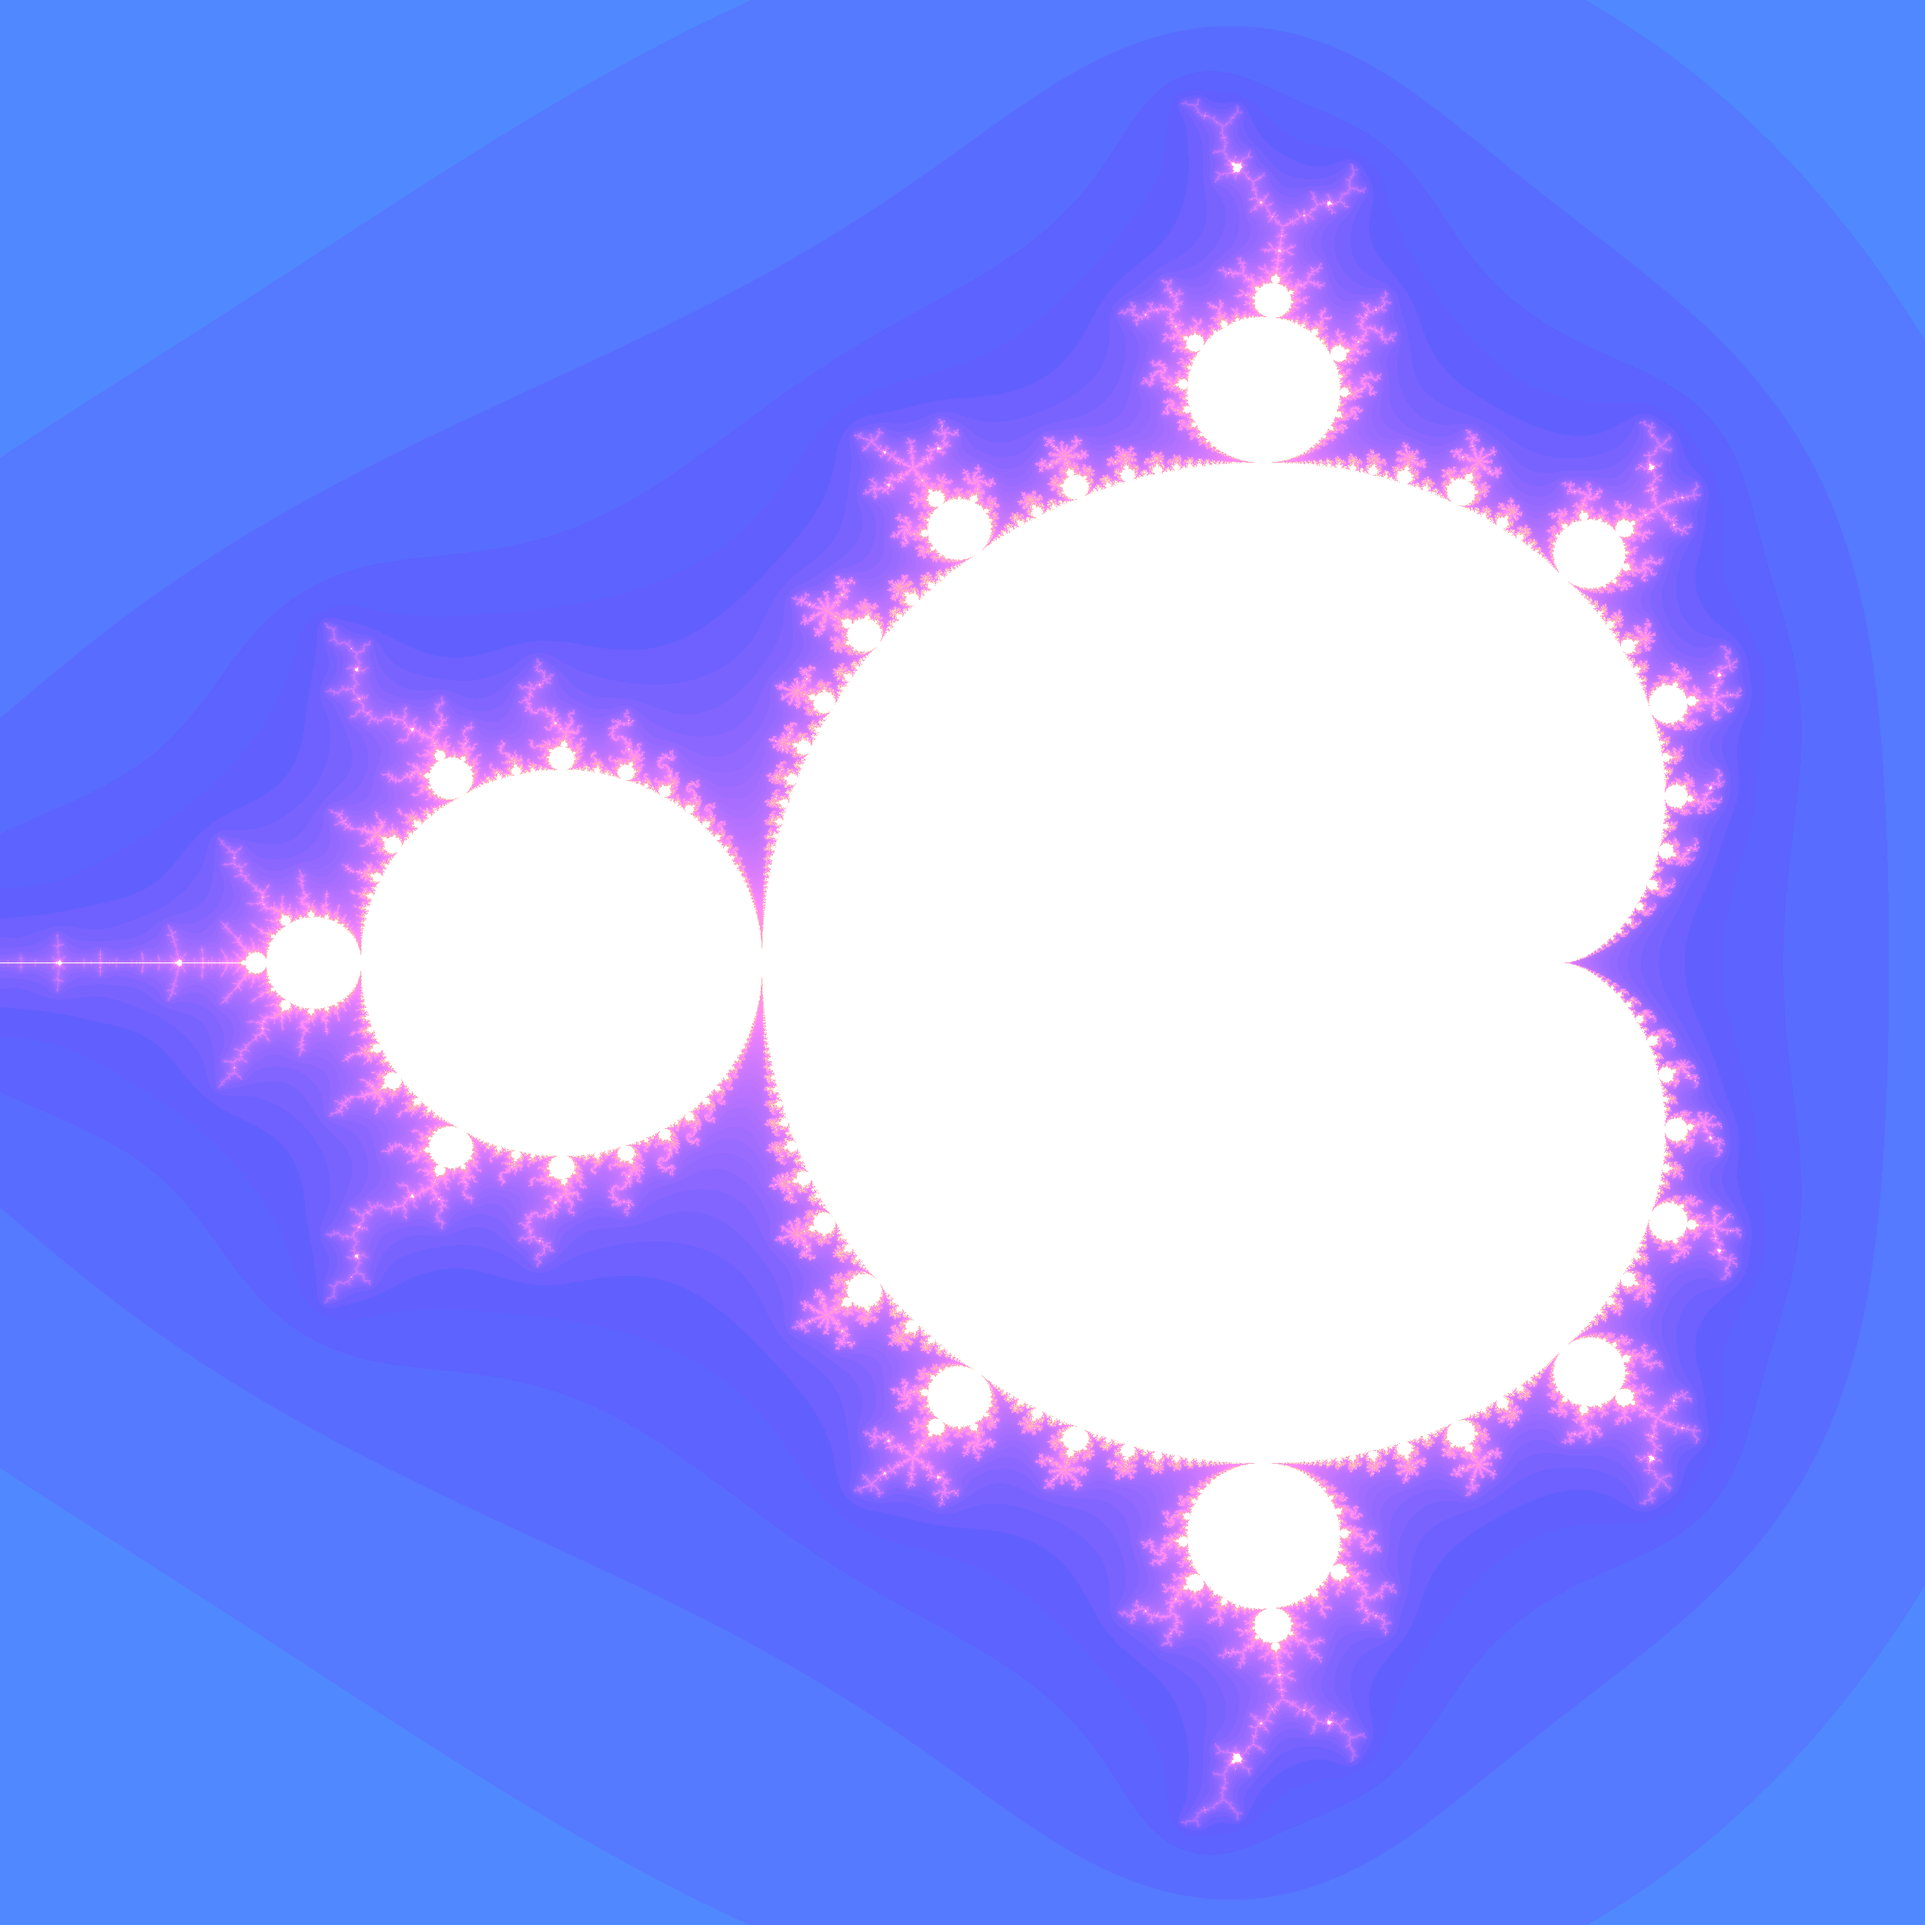
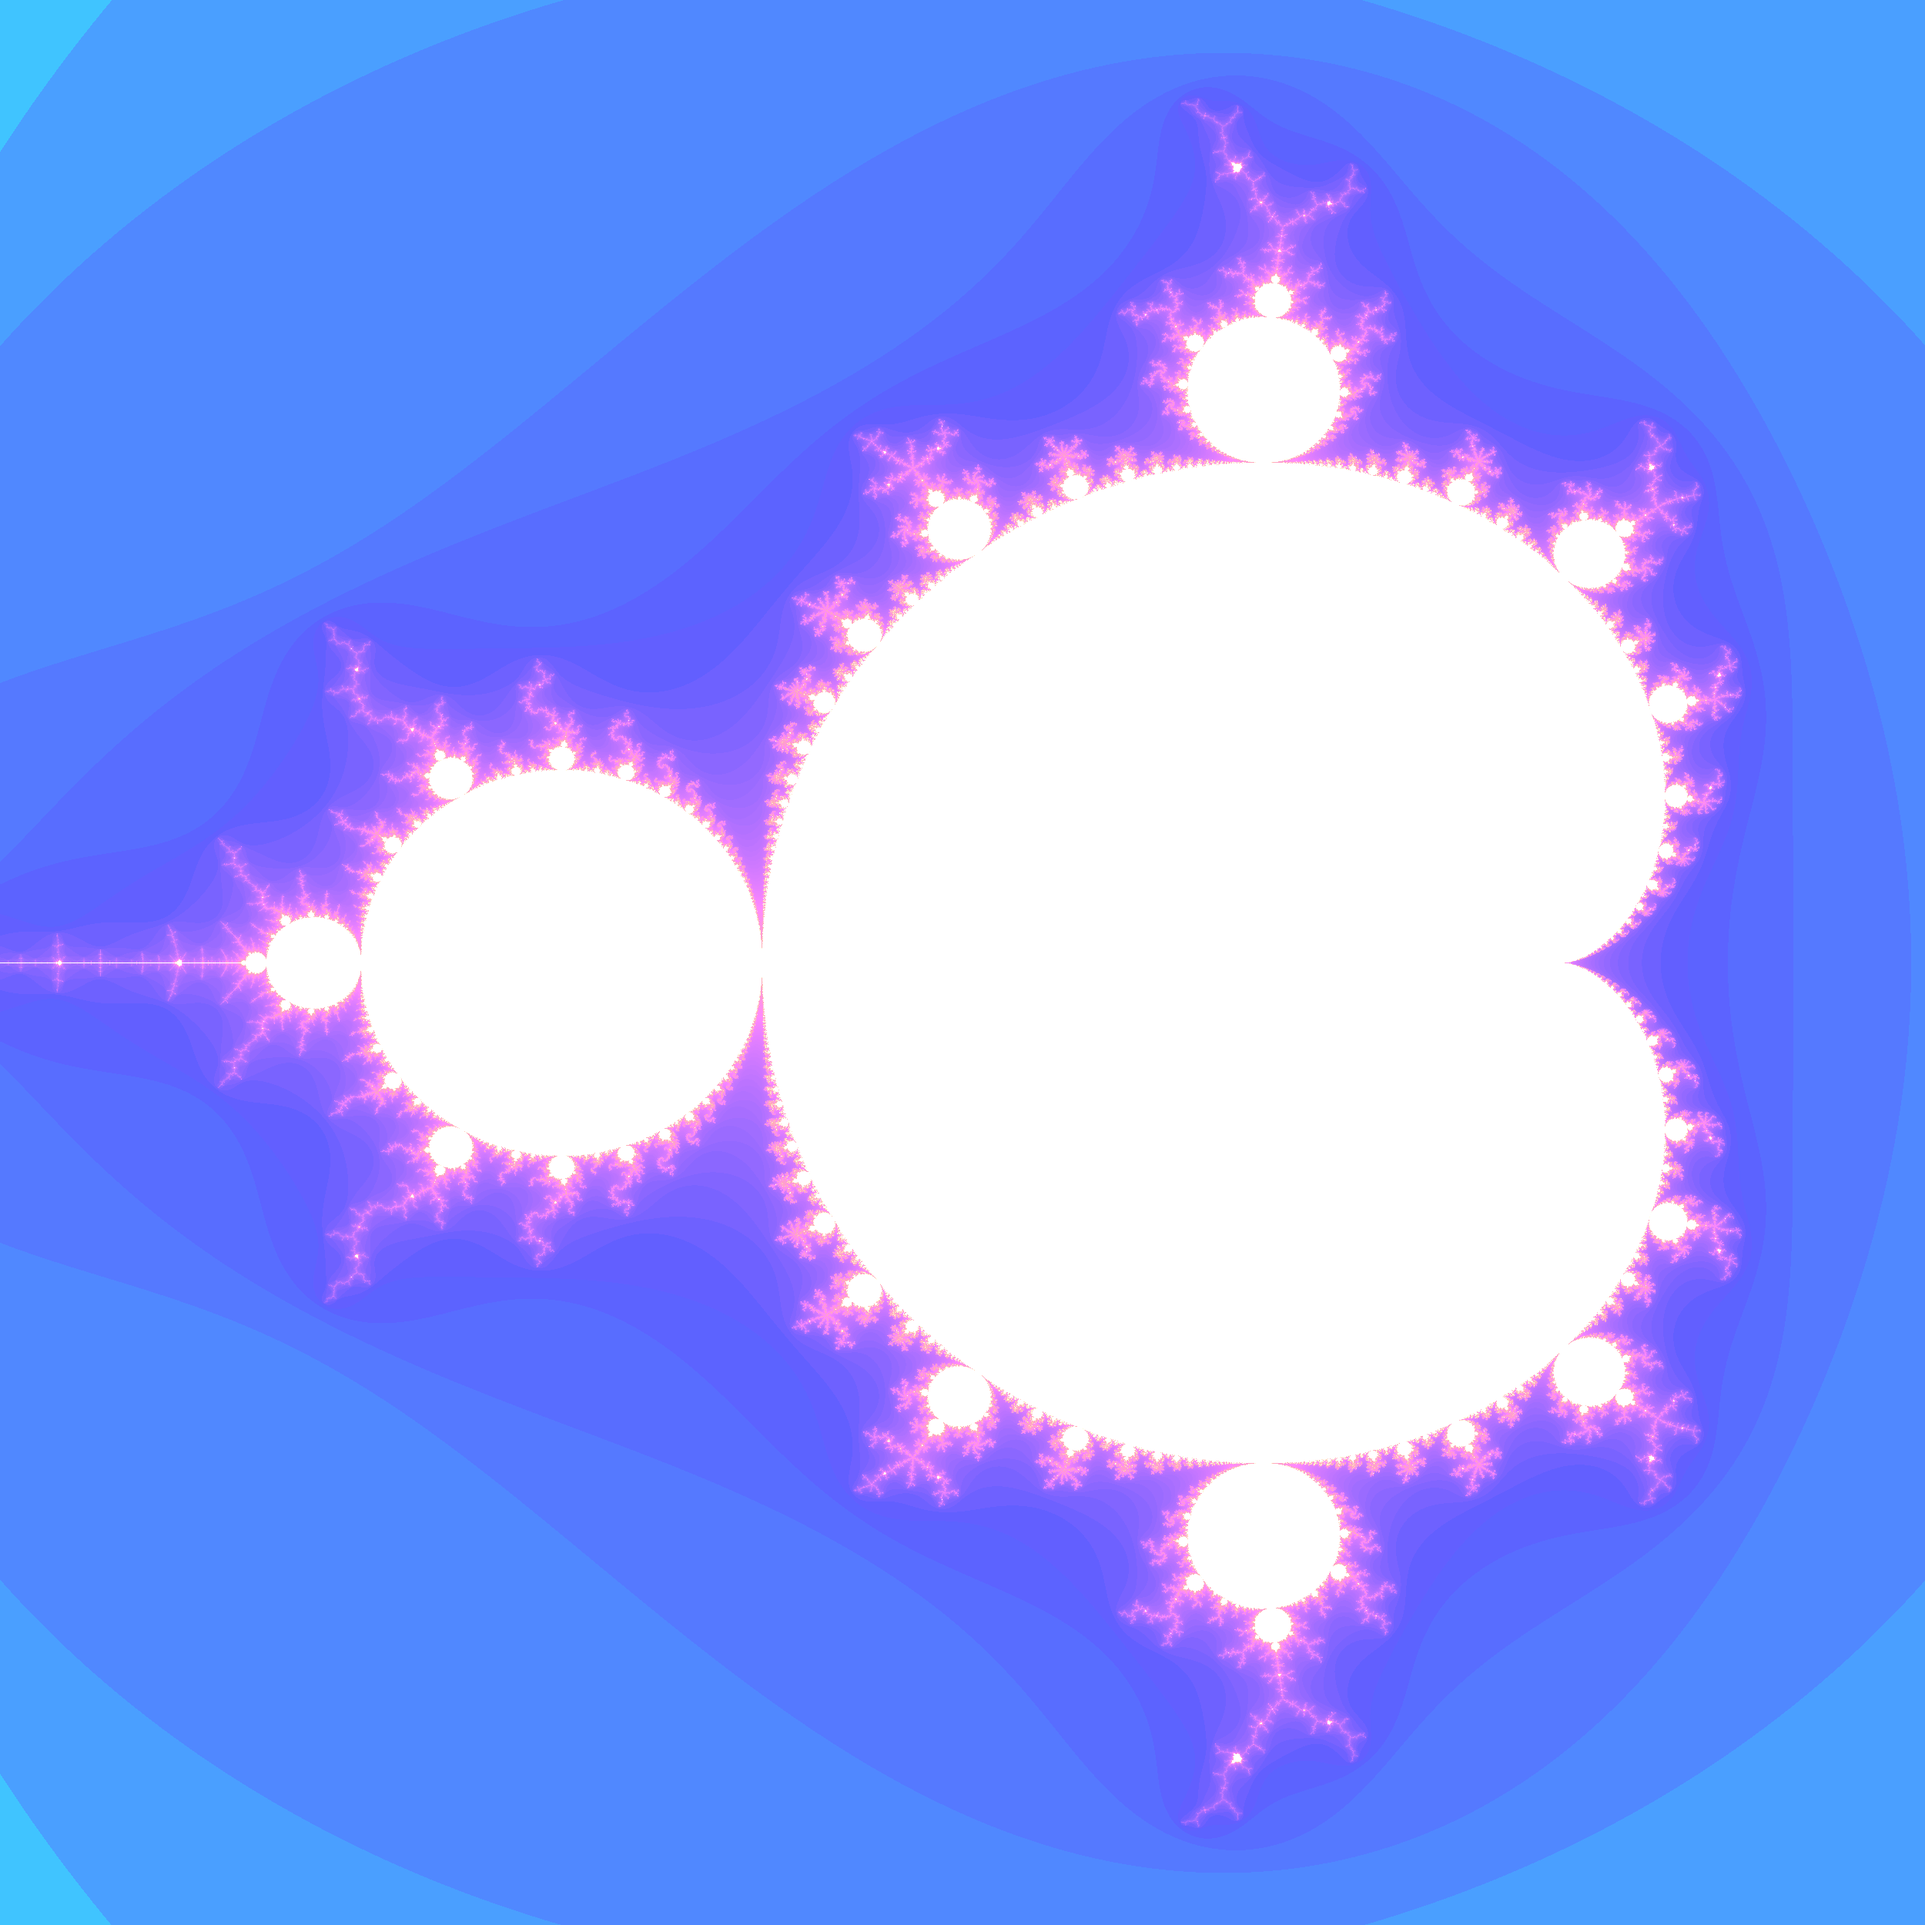
[+] Refactor, begin Buddhabrot

diff --git a/buddhabrot.py b/buddhabrot.py
@@ -1,0 +1,55 @@
+from PIL import Image
+from tqdm import tqdm
+import os
+import colorsys
+import math
+import time
+import numpy as np
+
+def non_mandel_points(base_num_points, max_iter):
+
+    non_mandel = np.zeros(base_num_points, dtype=np.complex128)
+    points_found = 0
+
+    random_numbers = (np.random.random(base_num_points)* 4 - 2 + (np.random.random(base_num_points)* 4 - 2) * 1j)
+
+    print("Total number of points found : {0}".format(len(random_numbers)))
+    
+    p = (((random_numbers.real-0.25)**2) + (random_numbers.imag**2))**.5
+    random_numbers = random_numbers[random_numbers.real > p- (2*p**2) + 0.25]
+
+    print("After deleting points in the main cardioid : {0}".format(len(random_numbers)))
+
+    random_numbers = random_numbers[((random_numbers.real+1)**2) + (random_numbers.imag**2) > 0.0625]
+
+    print("After deleting points of the period-2 bulb : {0}".format(len(random_numbers)))
+
+    z = np.copy(random_numbers)
+
+    for i in range(max_iter):
+
+        z = z ** 2 + random_numbers
+
+        mask = abs(z) < 2
+        # Get the points that are for sure not part of the Mandelbrot set
+        new_non_mandel = random_numbers[mask == False]
+        found_in_iter = len(new_non_mandel)
+        non_mandel[points_found:points_found+found_in_iter] = new_non_mandel
+        points_found += found_in_iter
+
+
+        #Delete these points from the data
+        random_numbers = random_numbers[mask]
+        z = z[mask]
+
+        #print("Deleted {0} numbers in iteration {1}".format(found_in_iter, i))
+        
+    print(points_found)
+    return(non_mandel[:points_found])
+
+
+
+
+if __name__ == "__main__":
+
+    non_mandel_points(500000, 10000)

diff --git a/mandelbrot.py b/mandelbrot.py
@@ -4,6 +4,7 @@ import os
 import colorsys
 import math
 import time
+import utils as utils
 
 # Generates Mandelbrot set
 # Iterates over every coordinates 
@@ -20,25 +21,6 @@ MAX_STEPS = 1000
 rendu = Image.new('RGB', (WIDTH, HEIGHT), color='black')
 pixels = rendu.load()
 
-def calc_distance(c, max_iter = MAX_STEPS):
-    z = complex(0, 0)
-
-    for iteration in range(max_iter + 1):
-        z = (z*z) + c
-
-        if abs(z) > 4:
-            break
-            pass
-        pass
-    
-    return (iteration + 1) / (max_iter + 1)
-
-def color_scale(distance, exp, const):
-    # The one who don't escape are white ? 
-    color = distance ** exp
-    rgb_color = colorsys.hsv_to_rgb(const + color, 1 - color, 1)
-    return tuple(round(i*255) for i in rgb_color)
-
 start = time.time()
 
 for row in tqdm(range(HEIGHT)):
@@ -46,26 +28,9 @@ for row in tqdm(range(HEIGHT)):
         x = MIN_X + col * X_RANGE / WIDTH
         y = MAX_Y - row * Y_RANGE / HEIGHT
         c = complex(x, y)
-        #prev_x = x
-        #prev_y = y
-        #prev_c = c
 
-        """
-        for i in range(MAX_STEPS + 1):
-            re = x**2 - y**2
-            im = 2 * x * y
-            #current = c*c
-            x = re + prev_x
-            y = im + prev_y
-
-            if x**2 + y**2 > 4:
-                break
-        
-        if i < MAX_STEPS:
-            distance = (i + 1) / (MAX_STEPS + 1)"""
-
-        distance = calc_distance(c)
-        pixels[col, row] = color_scale(distance, 0.2, 0.3)
+        distance = utils.calc_distance(c, MAX_STEPS)
+        pixels[col, row] = utils.color_scale(distance, 0.2, 0.3)
 
 end = time.time()
 

diff --git a/utils.py b/utils.py
@@ -1,0 +1,20 @@
+import colorsys
+
+def calc_distance(c, max_iter):
+    z = complex(0, 0)
+
+    for iteration in range(max_iter + 1):
+        z = (z*z) + c
+
+        if abs(z) > 2:
+            break
+            pass
+        pass
+    
+    return (iteration + 1) / (max_iter + 1)
+
+def color_scale(distance, exp, const):
+    # The one who don't escape are white ? 
+    color = distance ** exp
+    rgb_color = colorsys.hsv_to_rgb(const + color, 1 - color, 1)
+    return tuple(round(i*255) for i in rgb_color)
